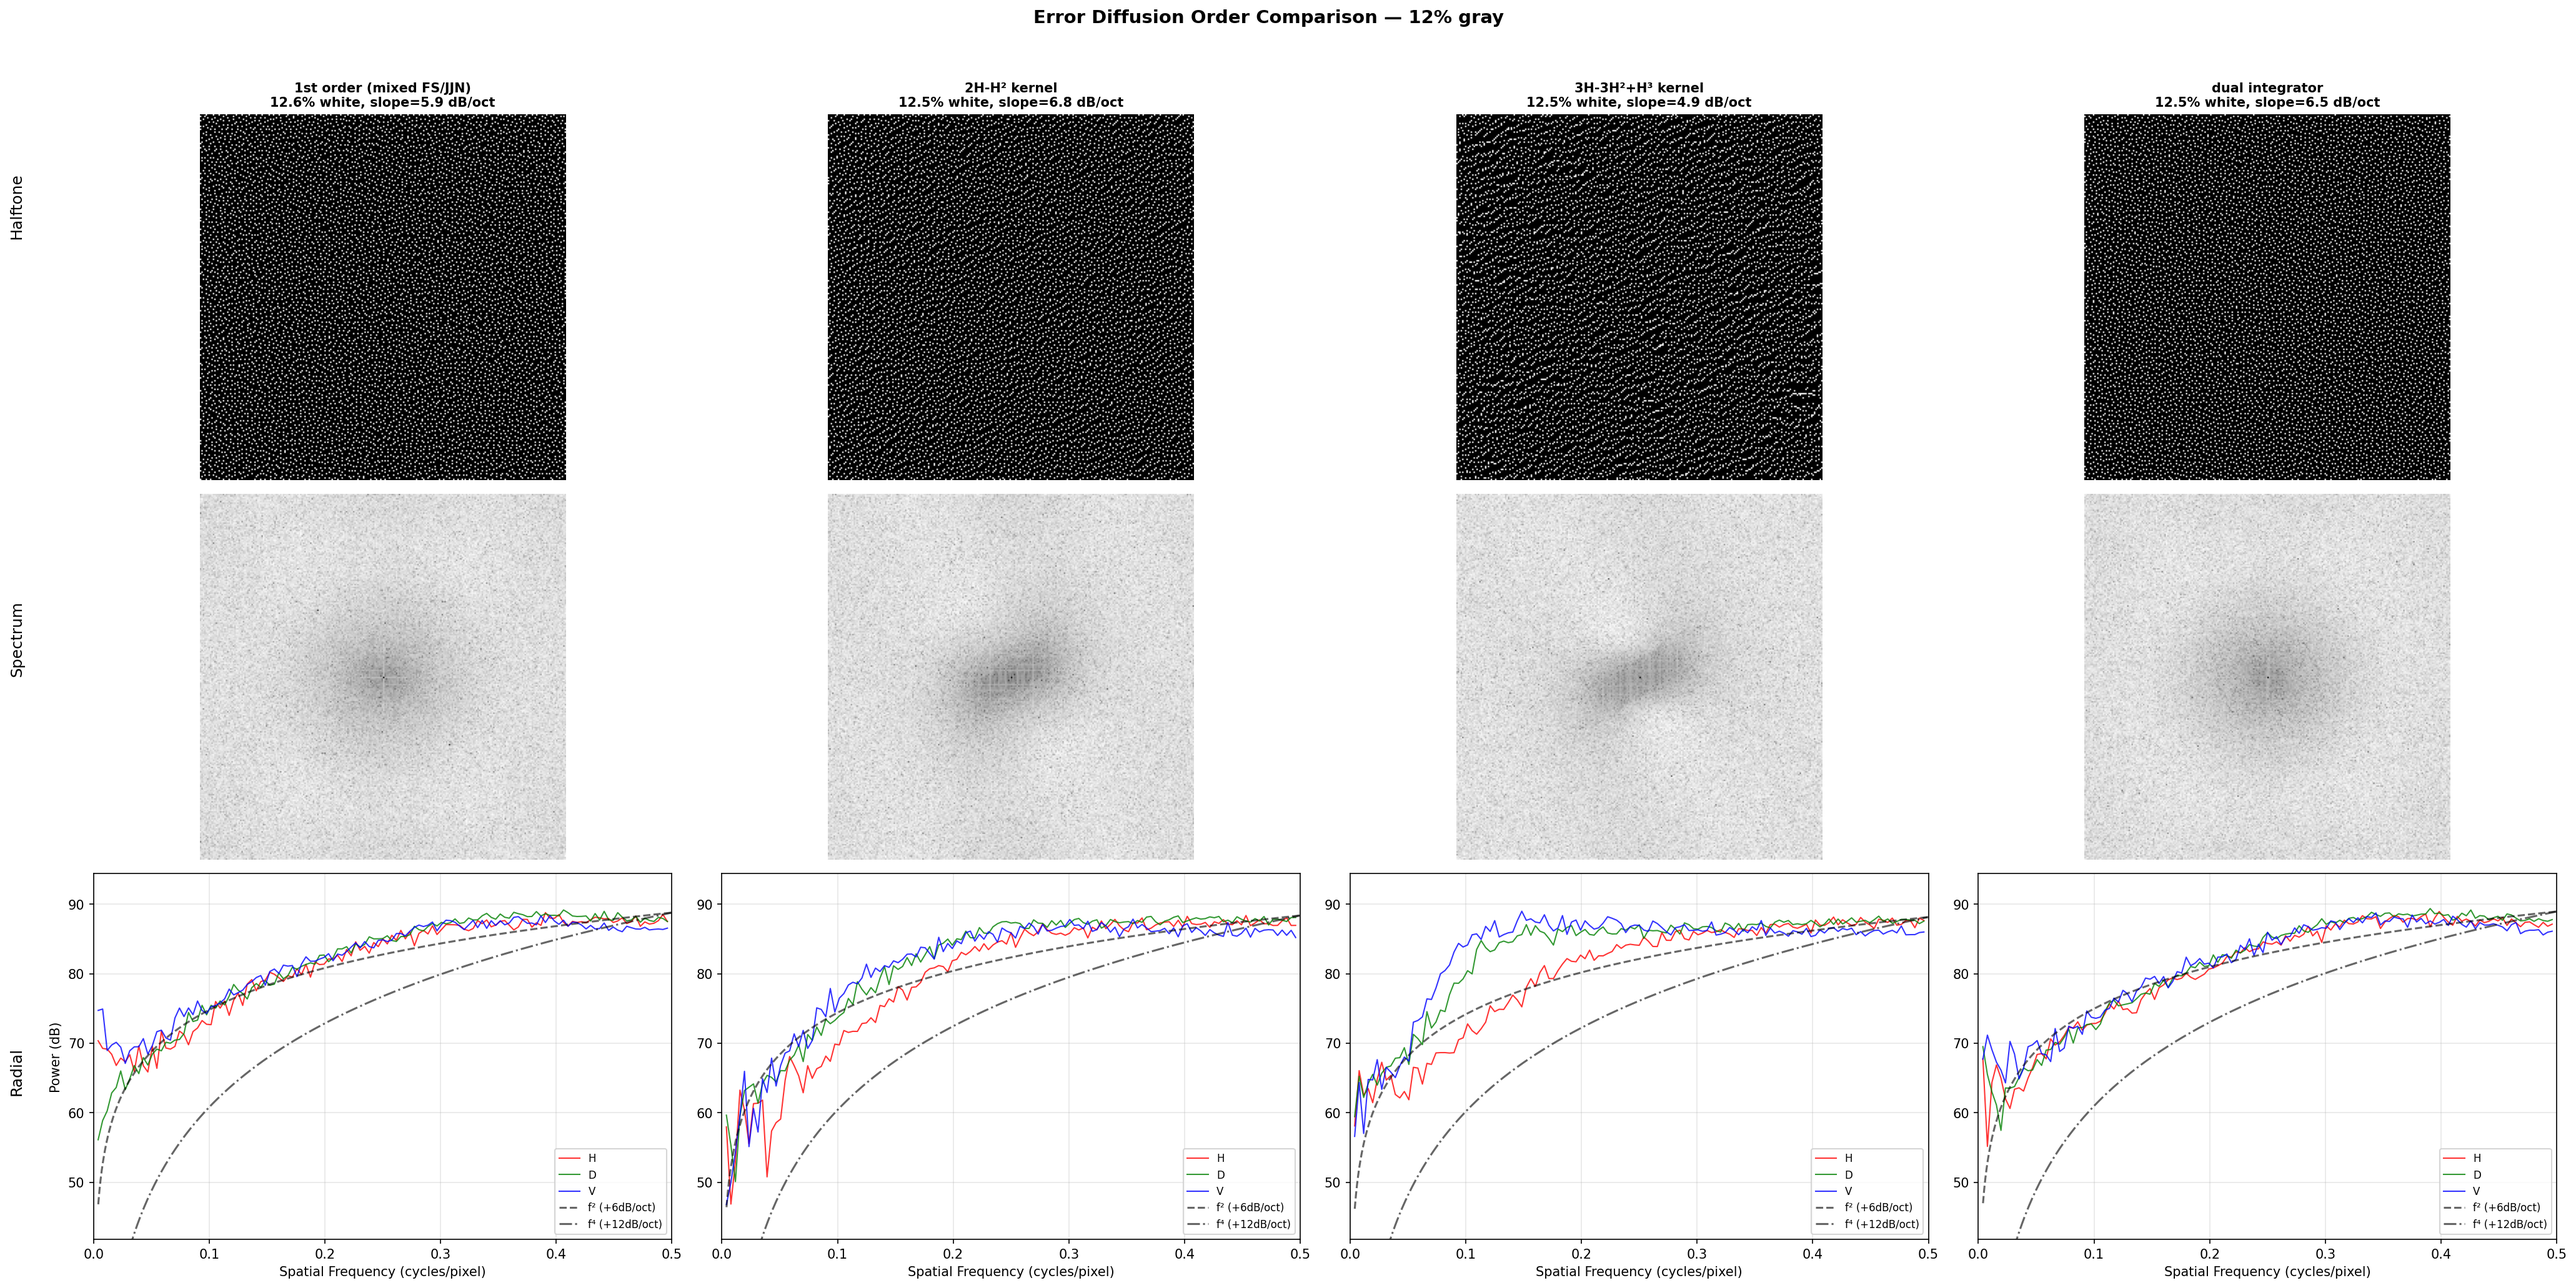
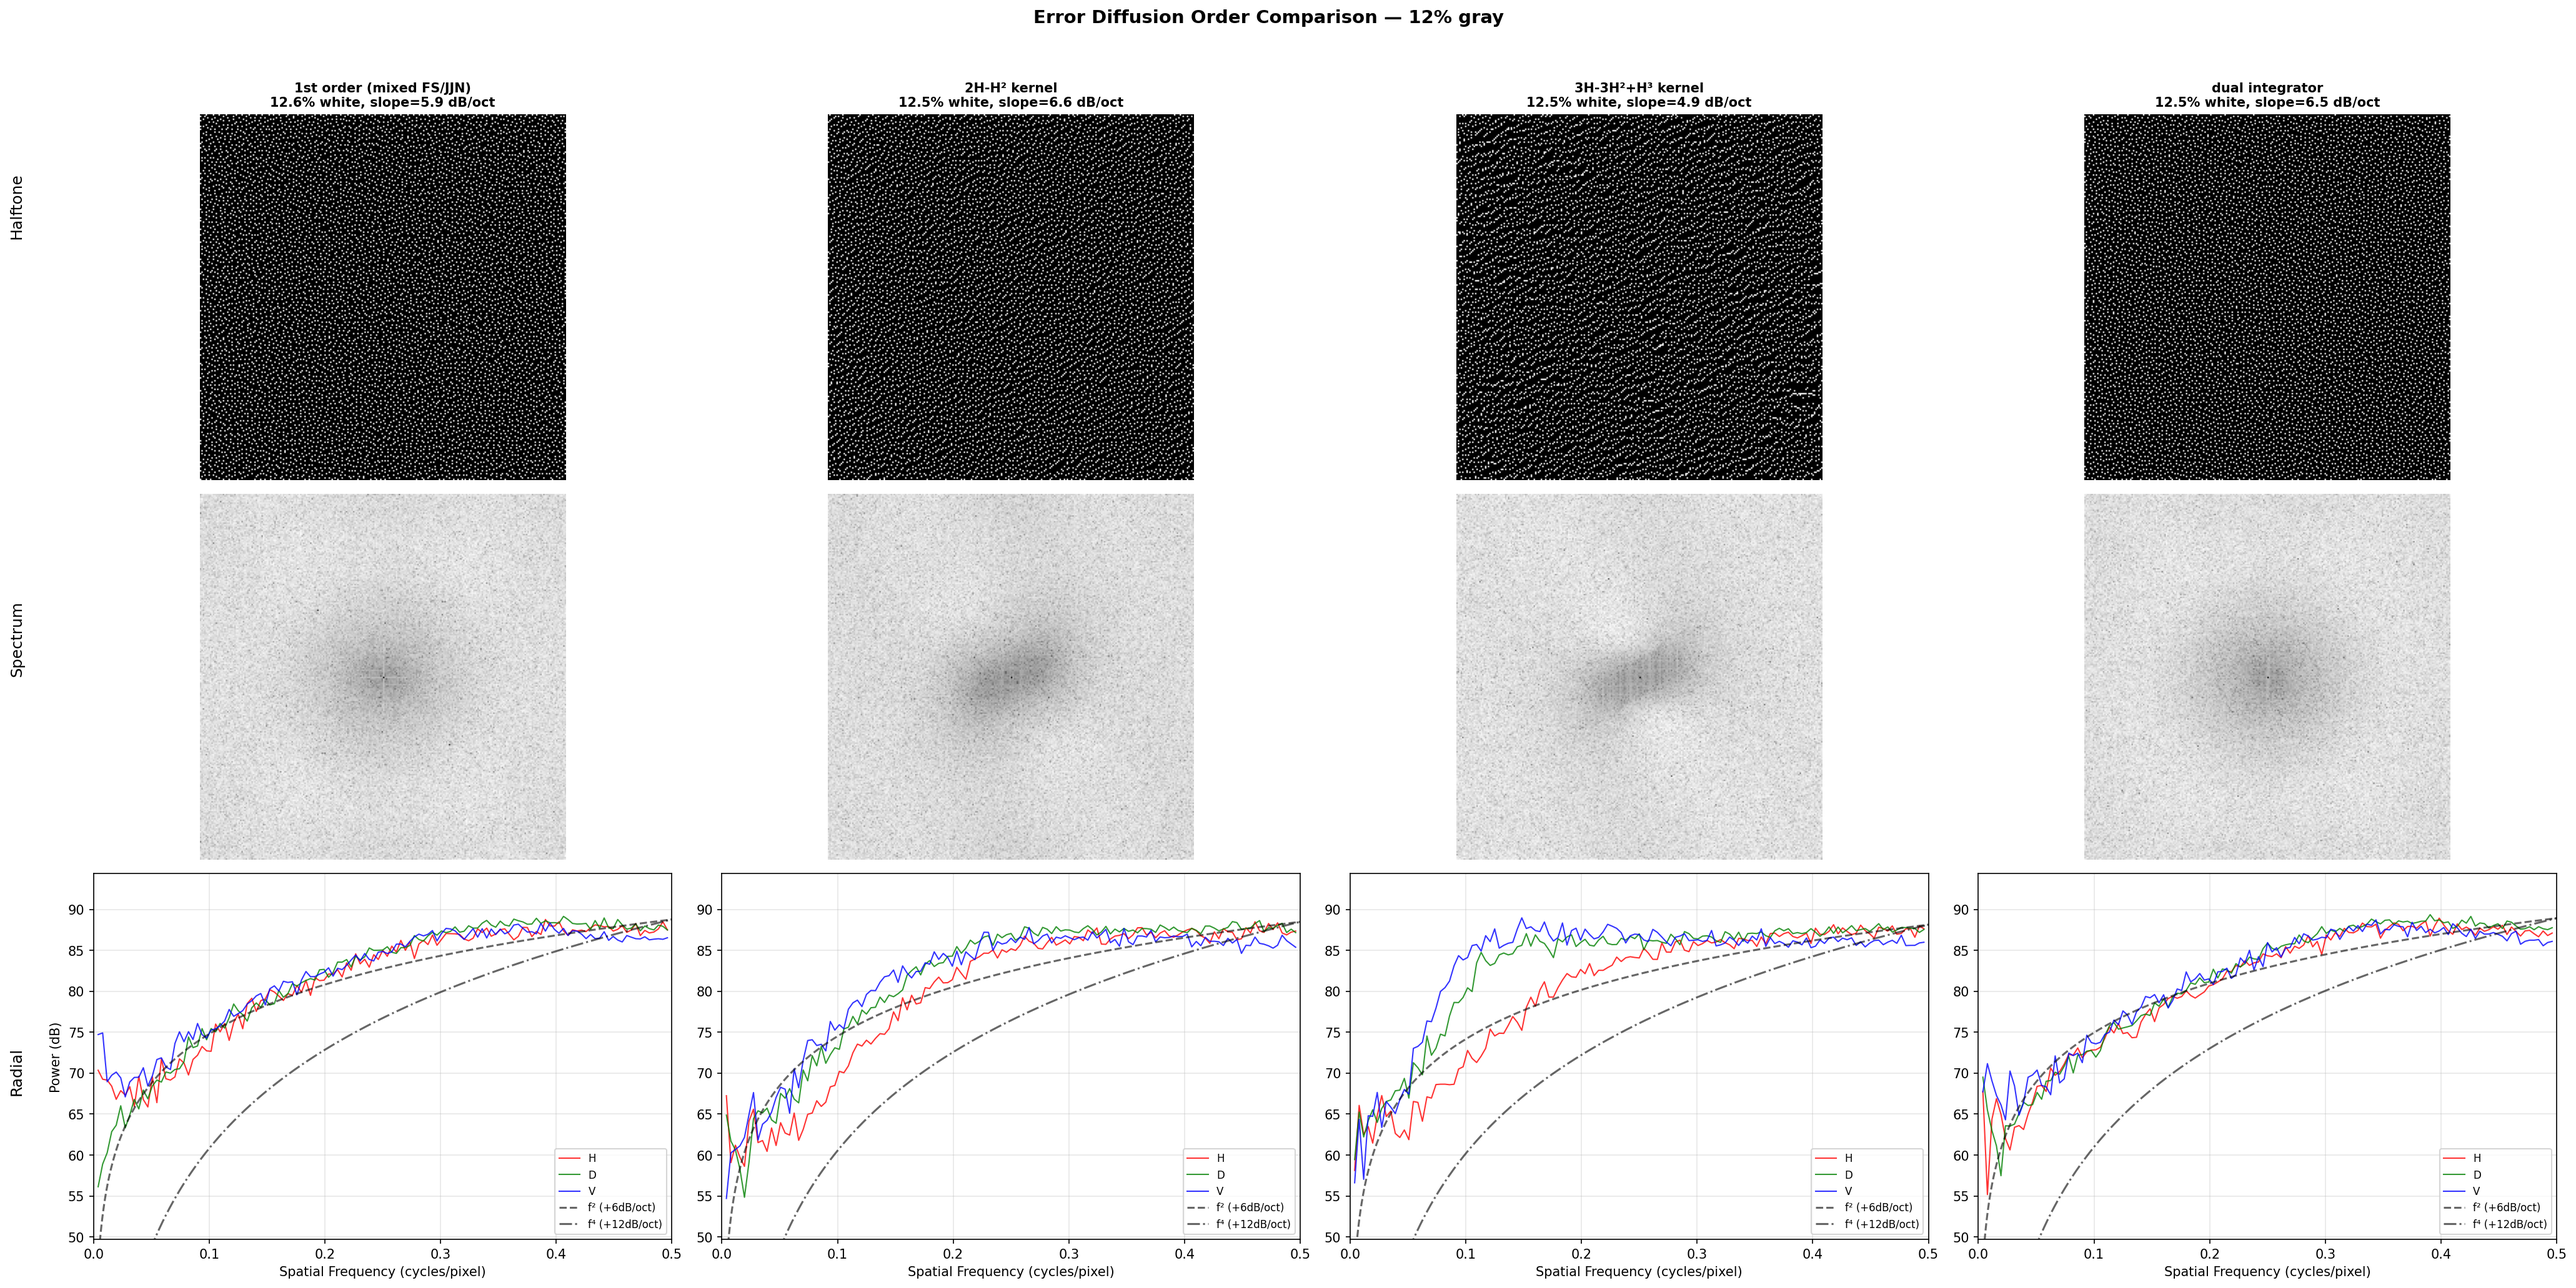
Change randomizer for 2nd order kernel to triple32

diff --git a/tools/test_twelve/second_order_dither.py b/tools/test_twelve/second_order_dither.py
@@ -87,6 +87,19 @@ def lowbias32(x: np.uint32) -> np.uint32:
     return x
 
 
+def triple32(x: np.uint32) -> np.uint32:
+    """Triple32 hash function."""
+    x = np.uint32(x)
+    x ^= x >> np.uint32(17)
+    x = np.uint32(np.uint64(x) * np.uint64(0xed5ad4bb) & 0xFFFFFFFF)
+    x ^= x >> np.uint32(11)
+    x = np.uint32(np.uint64(x) * np.uint64(0xac4c1b51) & 0xFFFFFFFF)
+    x ^= x >> np.uint32(15)
+    x = np.uint32(np.uint64(x) * np.uint64(0x31848bab) & 0xFFFFFFFF)
+    x ^= x >> np.uint32(14)
+    return x
+
+
 # ============================================================================
 # Seeded buffer (matches Rust create_seeded_buffer)
 # ============================================================================
@@ -631,12 +644,13 @@ def dither_kernel_2nd(input_image, seed=0):
     The uniform assumption over-corrects vs the true mixed-kernel H², but
     this gives the best measured slope. Single feedback loop around one
     quantizer (Kite et al.). Always LTR (no serpentine).
+    Uses triple32 hash for kernel selection.
     """
     height, width = input_image.shape
     r = REACH_2ND
     s = SEED_2ND
     buf = create_seeded_buffer_r4(input_image)
-    hashed_seed = lowbias32(np.uint32(seed))
+    hashed_seed = triple32(np.uint32(seed))
 
     bx_start = r  # skip left overshoot
     process_height = s + height
@@ -652,7 +666,7 @@ def dither_kernel_2nd(input_image, seed=0):
 
             img_x = (px - s) & 0xFFFF
             img_y = (y - s) & 0xFFFF
-            coord_hash = lowbias32(np.uint32(img_x) ^ (np.uint32(img_y) << np.uint32(16)) ^ hashed_seed)
+            coord_hash = triple32(np.uint32(img_x) ^ (np.uint32(img_y) << np.uint32(16)) ^ hashed_seed)
             use_jjn = (coord_hash & 1) == 1
             apply_error_2nd(buf, bx, y, err, use_jjn, False)
 
